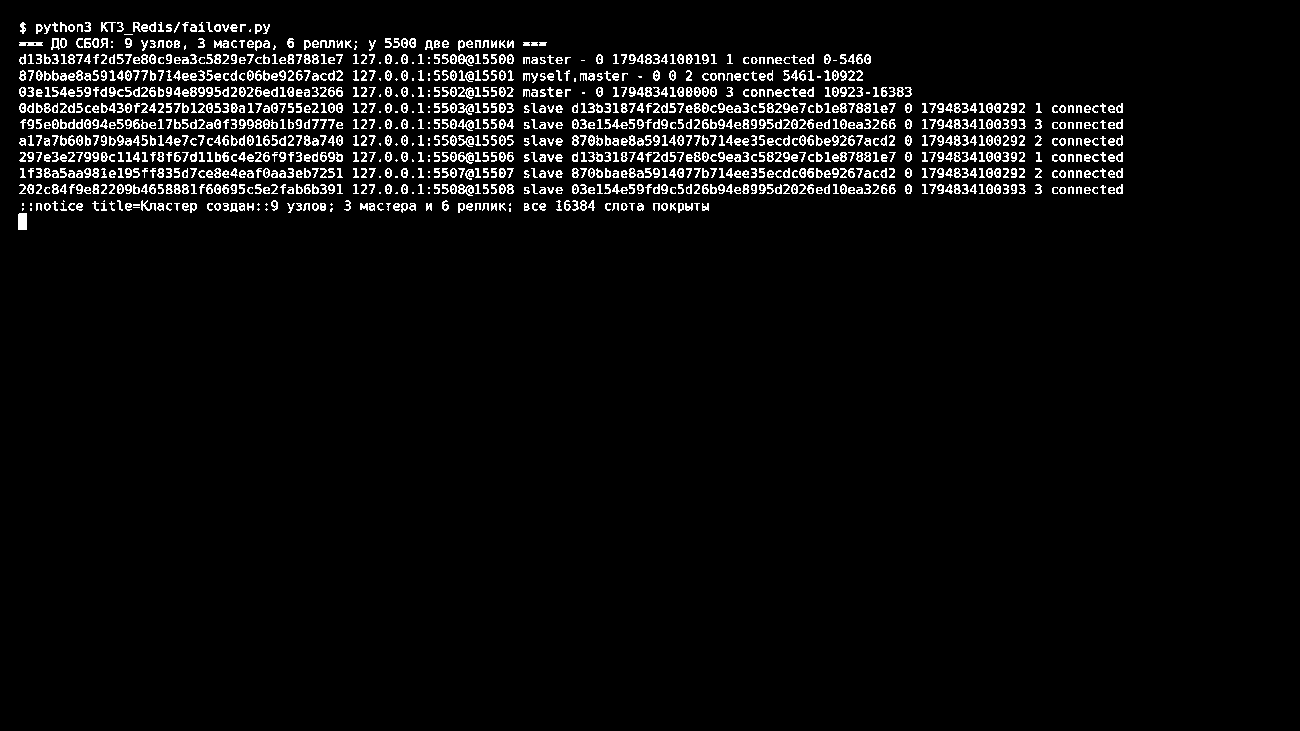
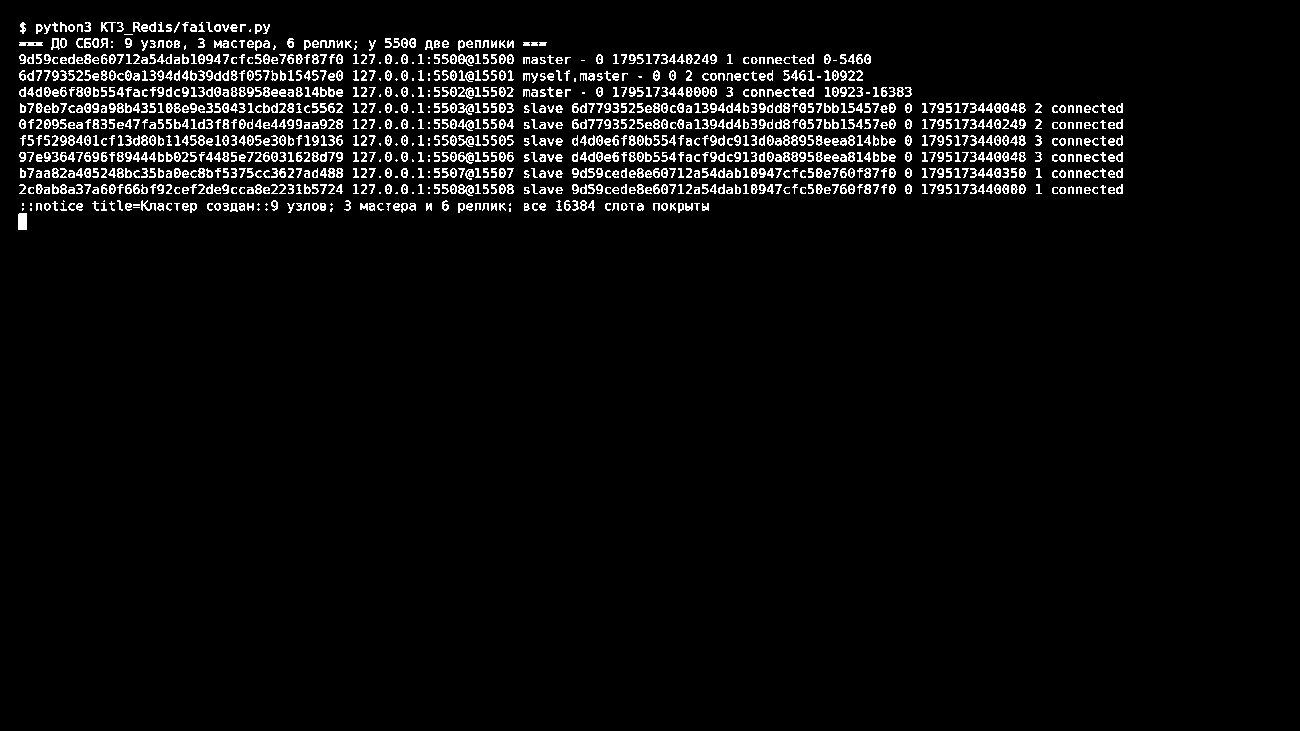
Finalize Pitsur AP report with own CI terminal screenshots

Changed region(s): [[0.0, 0.0602, 0.2769, 0.2709], [0.4308, 0.1204, 0.8, 0.2709], [0.4923, 0.0602, 0.5538, 0.0903]]

diff --git a/KT3_Redis/README.md b/KT3_Redis/README.md
@@ -18,6 +18,8 @@
 python3 KT3_Redis/failover.py
 ```
 
-Автоматическая проверка и снимки настоящего терминального окна выполняются в [GitHub Actions](../.github/workflows/kt3_redis_failover.yml). Отчёт DOCX со ссылкой на запуск и скриншотами находится в этой папке.
+Автоматическая проверка и снимки настоящего терминального окна выполняются в [GitHub Actions](../.github/workflows/kt3_redis_failover.yml). [Запуск № 44726300594](https://github.com/pitsur2006/--4/actions/runs/44726300594) прошёл успешно: кластер создан, отказ и восстановление проверены, три кадра сохранены.
+
+[Кадр до сбоя](screenshots/05_кластер_терминал.png), [кадр после смены мастера](screenshots/07_сбой_терминал.png) и [кадр после восстановления](screenshots/08_восстановление_терминал.png) сделаны в этом запуске. Они вставлены в [отчёт DOCX для Пицур АП](Отчёт_Пицур_АП_КТ3_1.docx).
 
 Redis Cluster использует асинхронную репликацию. `WAIT 2 5000` уменьшает риск потери проверочной записи, но не гарантирует строгую согласованность: [документация Redis](https://redis.io/docs/latest/management/scaling/).
